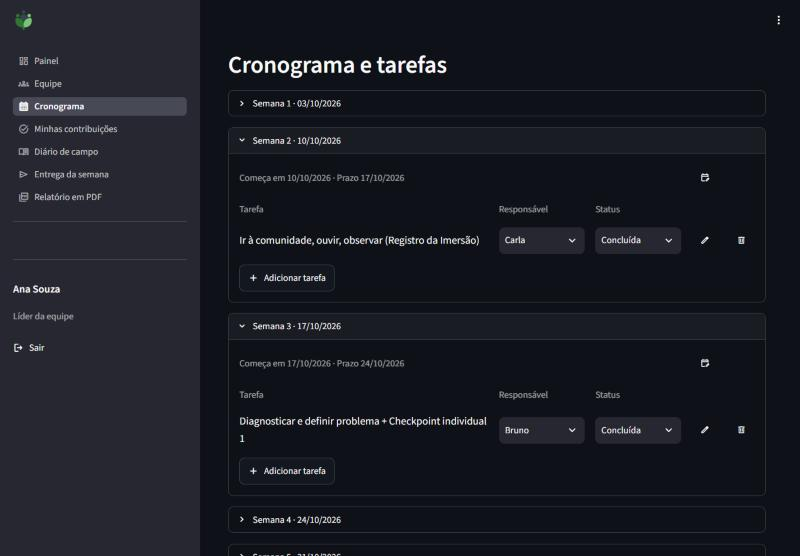
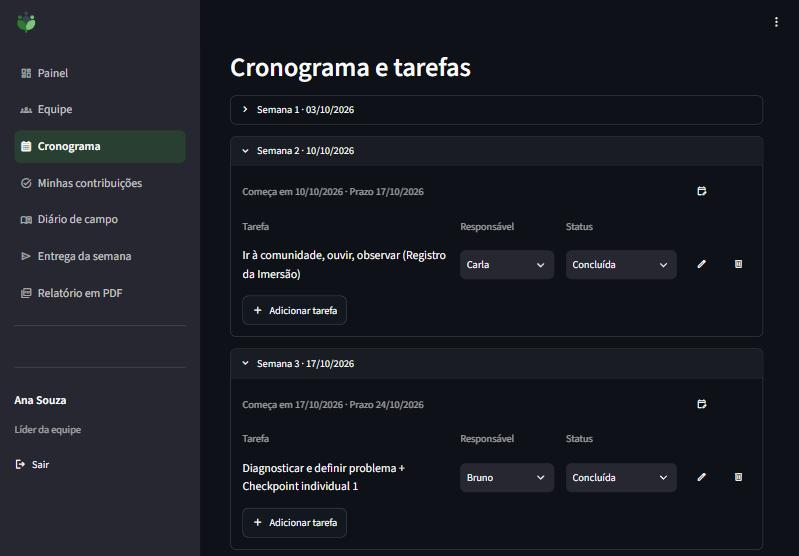
Aumenta a fonte base em 10% e destaca em verde a página atual do menu

diff --git a/app.py b/app.py
@@ -693,7 +693,7 @@ def pg_cronograma(u):
     t = q("SELECT * FROM tarefas ORDER BY semana, prazo, id")
     datas = datas_semanas()
     efetivos = prazos_efetivos()
-    colunas = [6, 2.2, 2.2, 0.8, 0.8]
+    colunas = [5, 2.4, 2.8, 0.8, 0.8]
     for sem, _, _ in CRONOGRAMA:
         prazo_semana = datas[sem]
         with st.expander(f"Semana {sem} · {br(prazo_semana)}", expanded=(sem == semana_atual())):
@@ -1225,6 +1225,10 @@ def injetar_aviso_saida():
 def aplicar_estilo():
     st.markdown("""
     <style>
+    /* Tamanho base 10% maior que o padrão; as fontes do Streamlit são em rem e acompanham. */
+    html {
+        font-size: 17.6px;
+    }
     .stMainBlockContainer {
         max-width: 870px;
         padding-left: 2rem;
@@ -1278,6 +1282,22 @@ def aplicar_estilo():
     .stElementContainer:has(iframe):not(:has(iframe[srcdoc*="caixa-visivel"])),
     .stElementContainer:has(style) {
         display: none;
+    }
+    /* Menu lateral: itens maiores e o da página atual em verde. */
+    [data-testid="stSidebarNavLink"] {
+        min-height: 2.75rem;
+        font-size: 1rem;
+        border-radius: 8px;
+    }
+    [data-testid="stSidebarNavLink"] span {
+        font-size: 1rem;
+    }
+    [data-testid="stSidebarNavLink"][aria-current="page"] {
+        background-color: rgba(46, 125, 50, 0.28);
+        font-weight: 600;
+    }
+    [data-testid="stSidebarNavLink"]:hover {
+        background-color: rgba(46, 125, 50, 0.14);
     }
     /* Botão de ação destrutiva dos diálogos de confirmação: vermelho, como nos sistemas em geral. */
     div[class*="st-key-dlg_perigo"] button {
